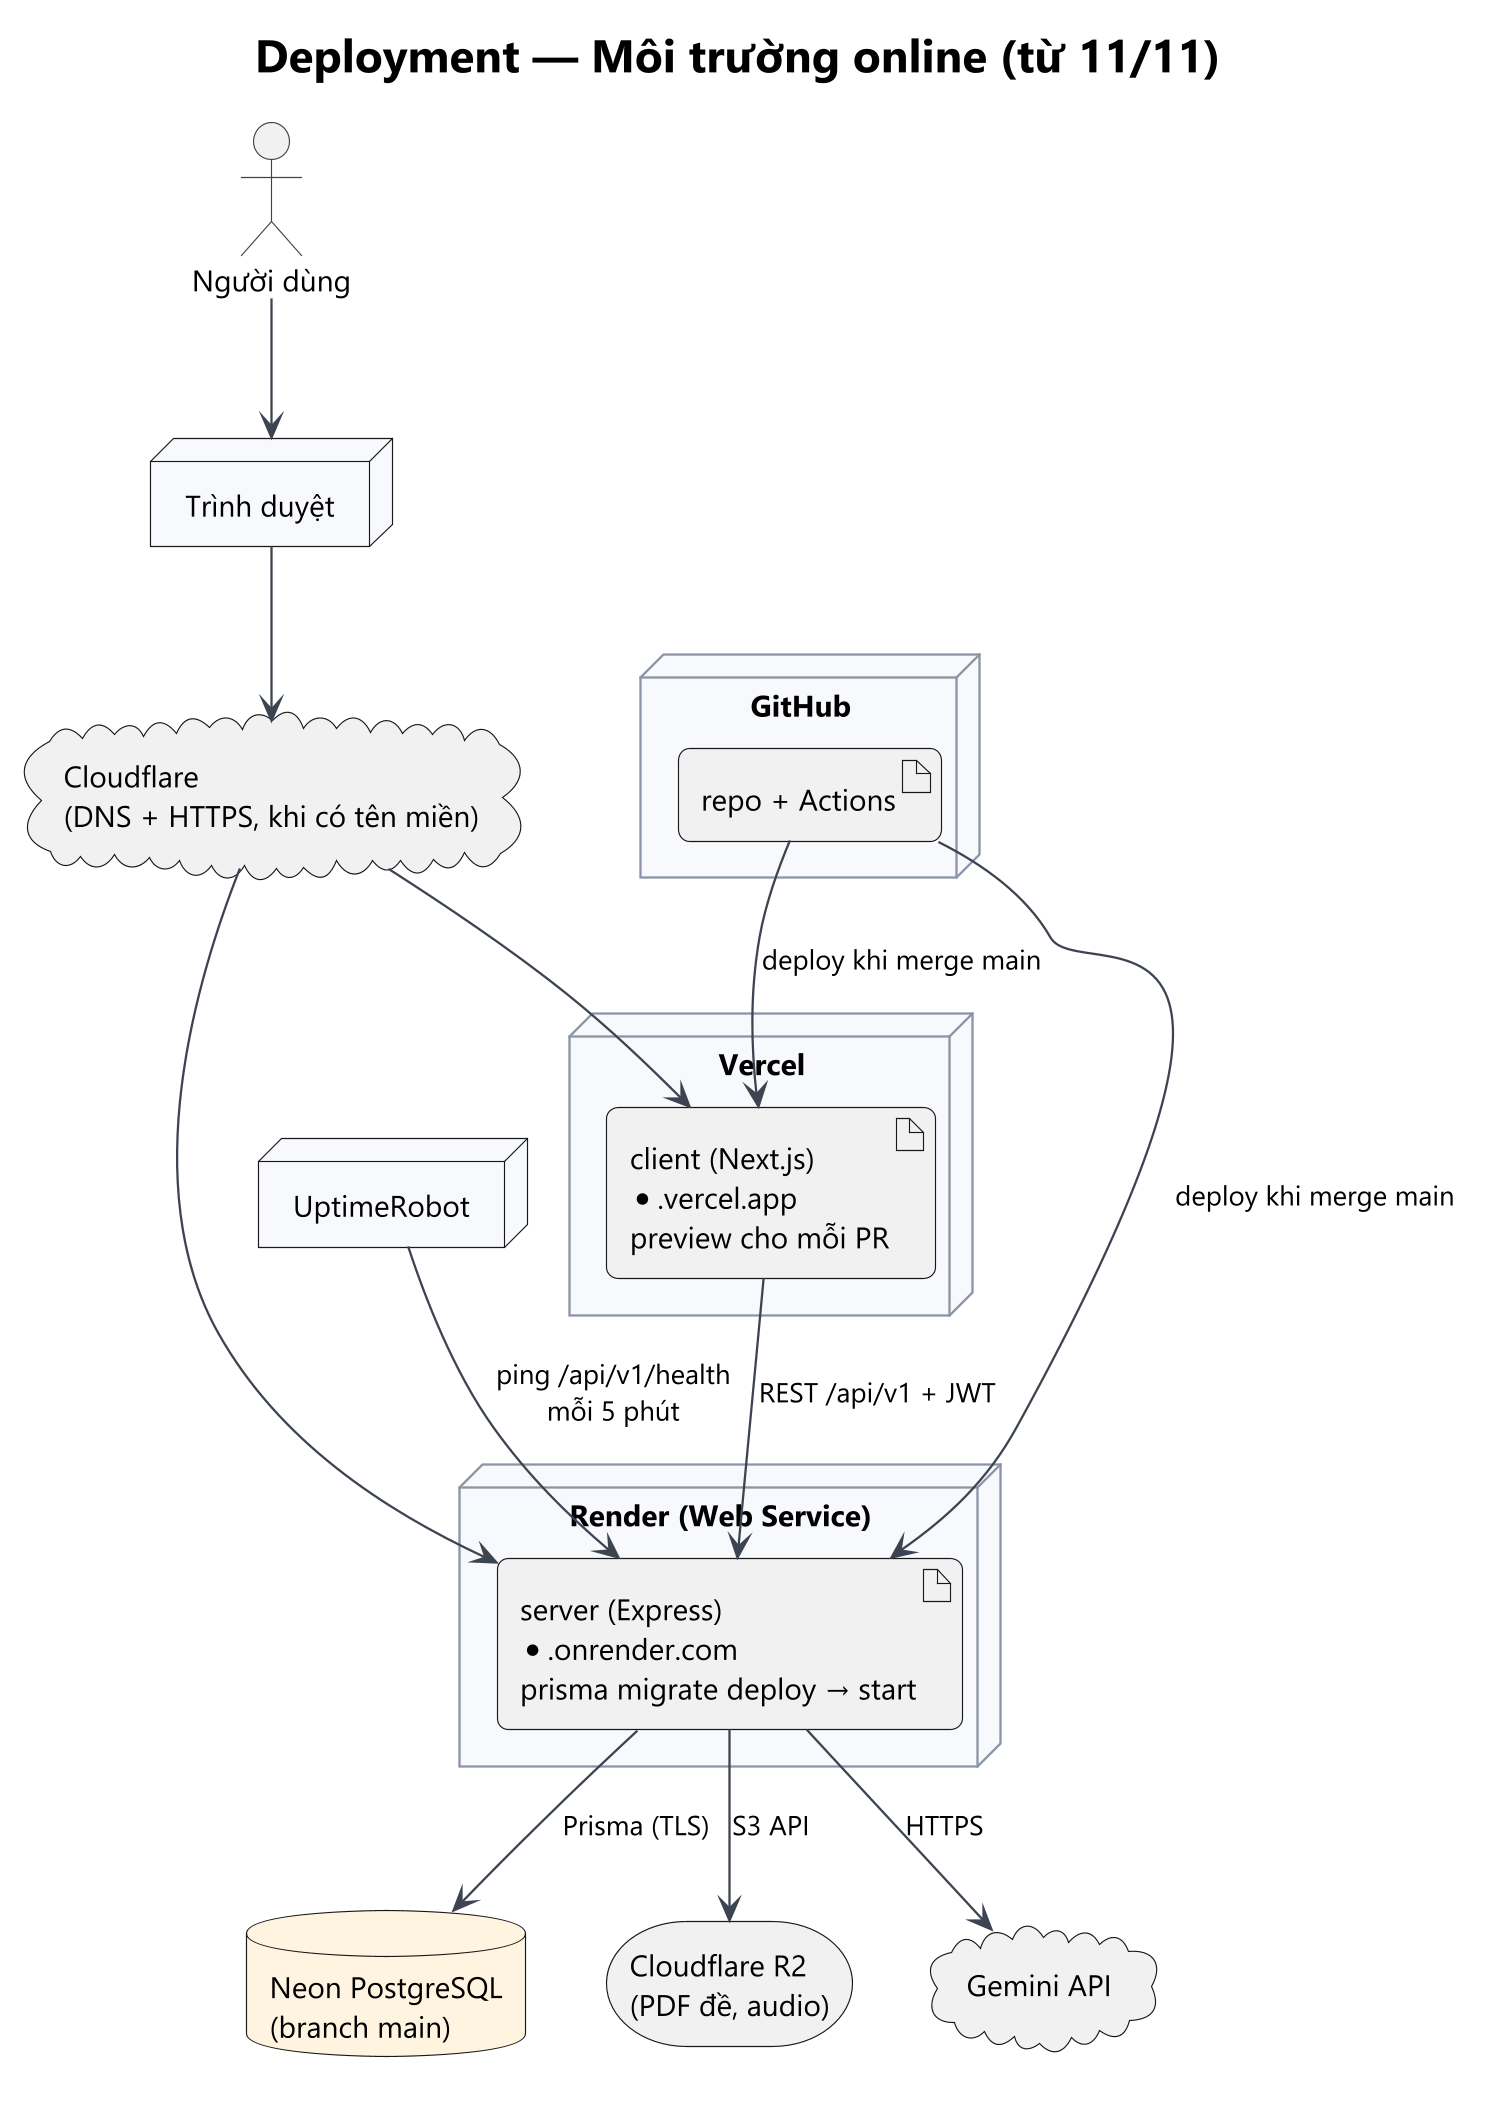
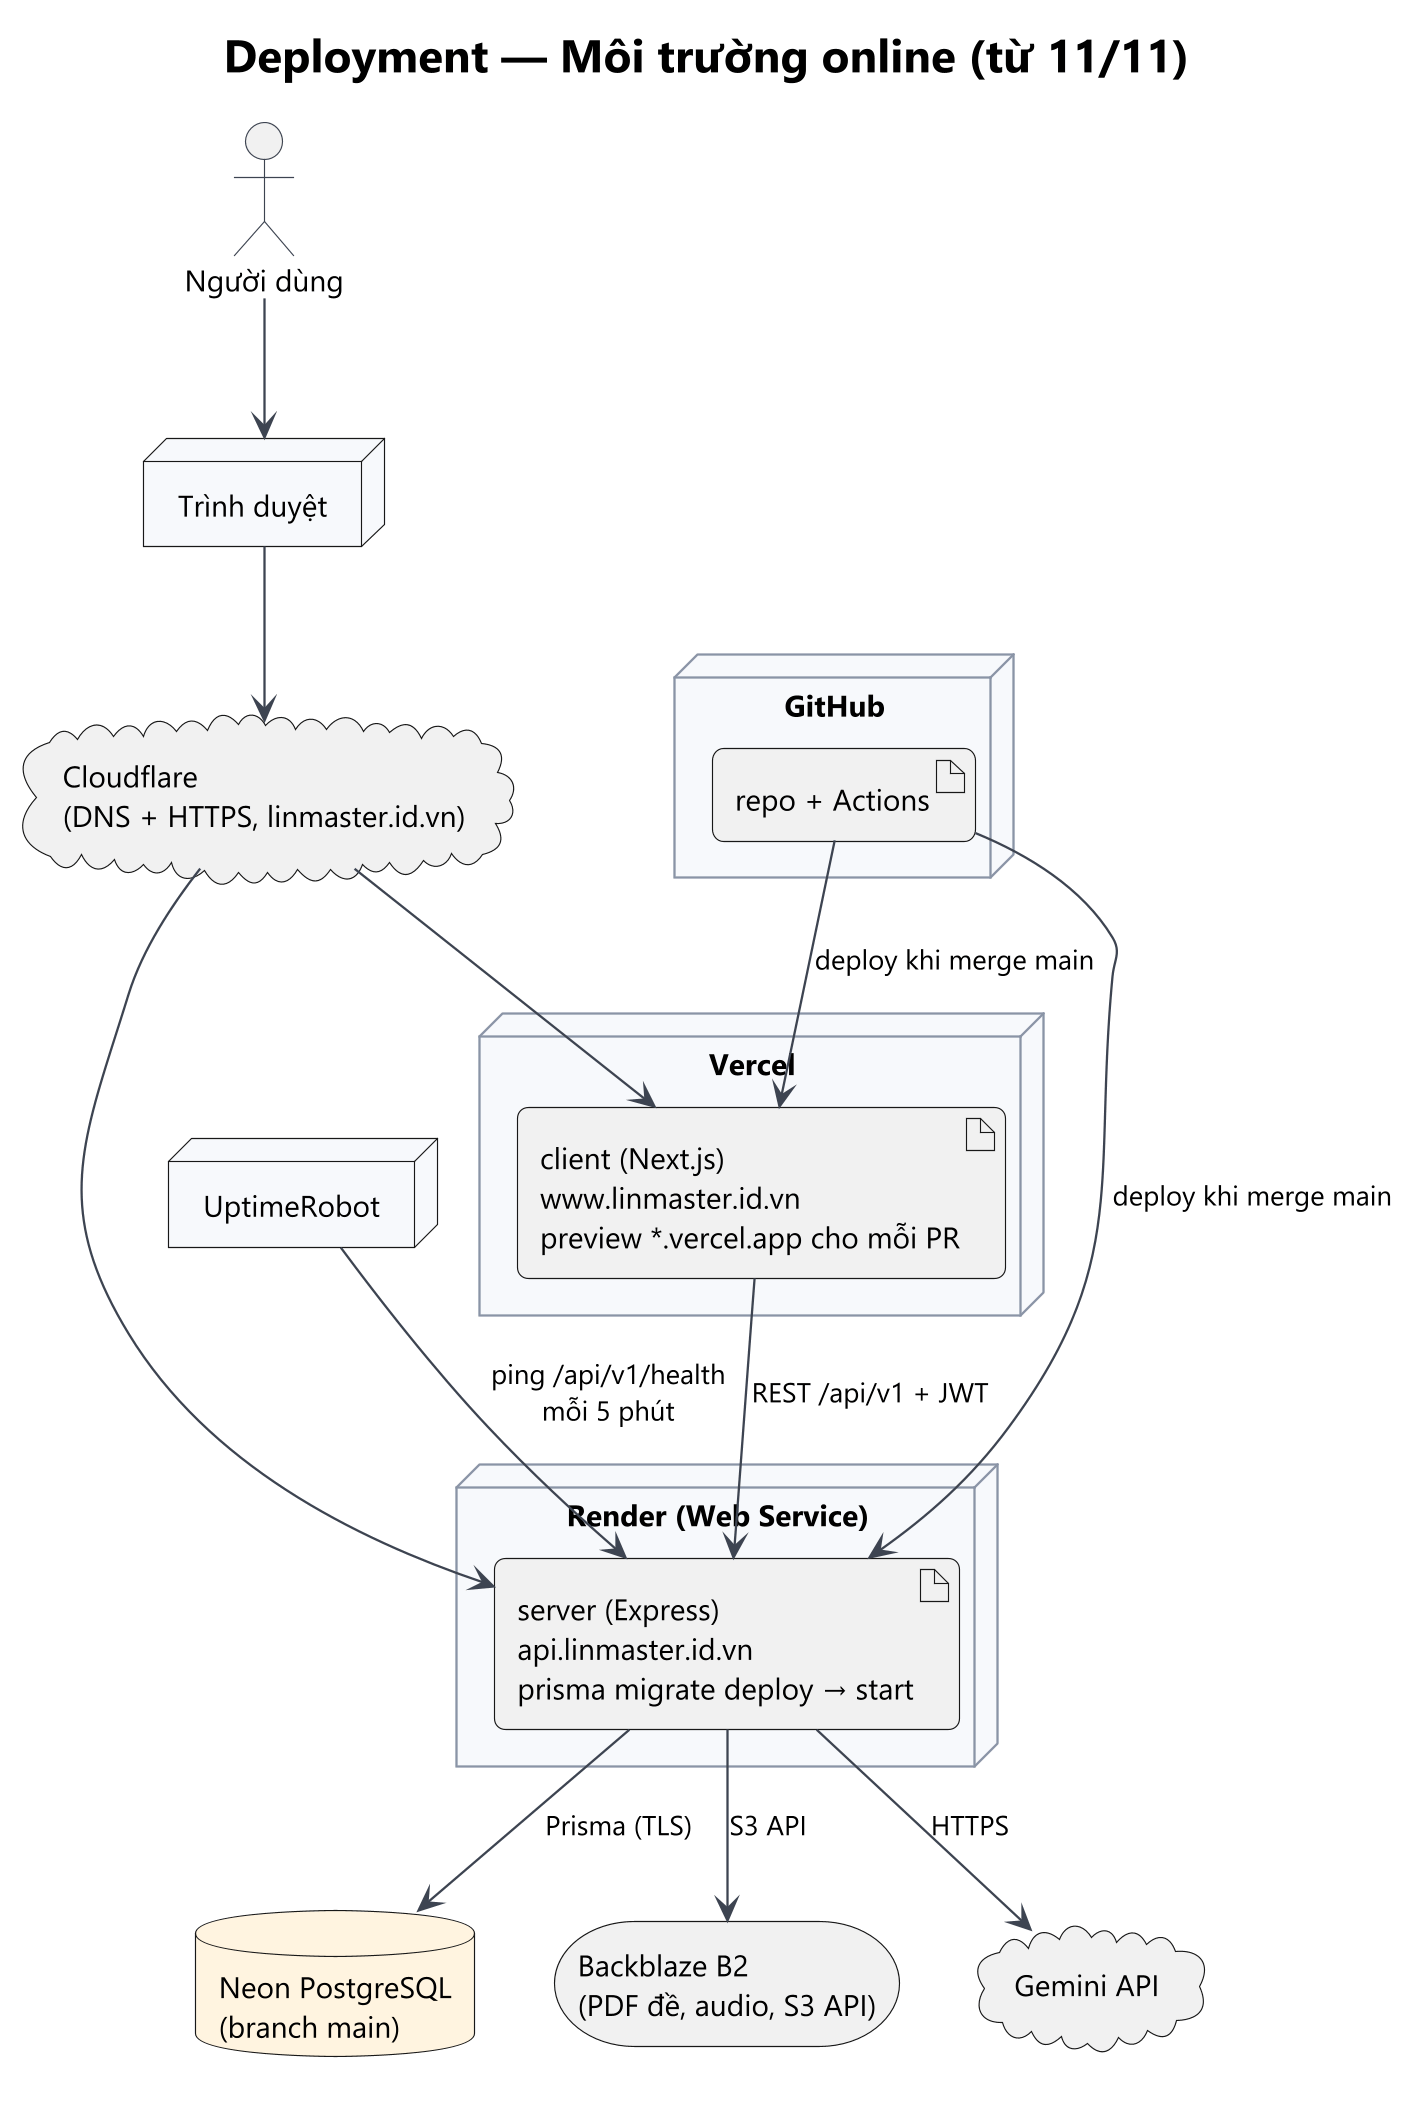
docs(diagrams): fix the deployment, component and task registry diagrams and parse-test.v2
Refs #229

diff --git a/Analysis_Design/README.md b/Analysis_Design/README.md
@@ -82,7 +82,7 @@ bash Analysis_Design/render.sh 03_Activity/act-05-tai-de.puml   # xuất một s
 |---|---|
 | [arc-01-component](06_Architecture/arc-01-component.png) | Module client / server / shared và phụ thuộc |
 | [arc-02-deployment-local](06_Architecture/arc-02-deployment-local.png) | Môi trường local và CI |
-| [arc-03-deployment-online](06_Architecture/arc-03-deployment-online.png) | Vercel, Render, Neon, R2, Gemini |
+| [arc-03-deployment-online](06_Architecture/arc-03-deployment-online.png) | Vercel, Render, Neon, Backblaze B2, Gemini |
 | [arc-04-class-module-registry](06_Architecture/arc-04-class-module-registry.png) | Hợp đồng module và các registry |
 | [arc-05-class-tang-module](06_Architecture/arc-05-class-tang-module.png) | Ba tầng trong một module server |
 
